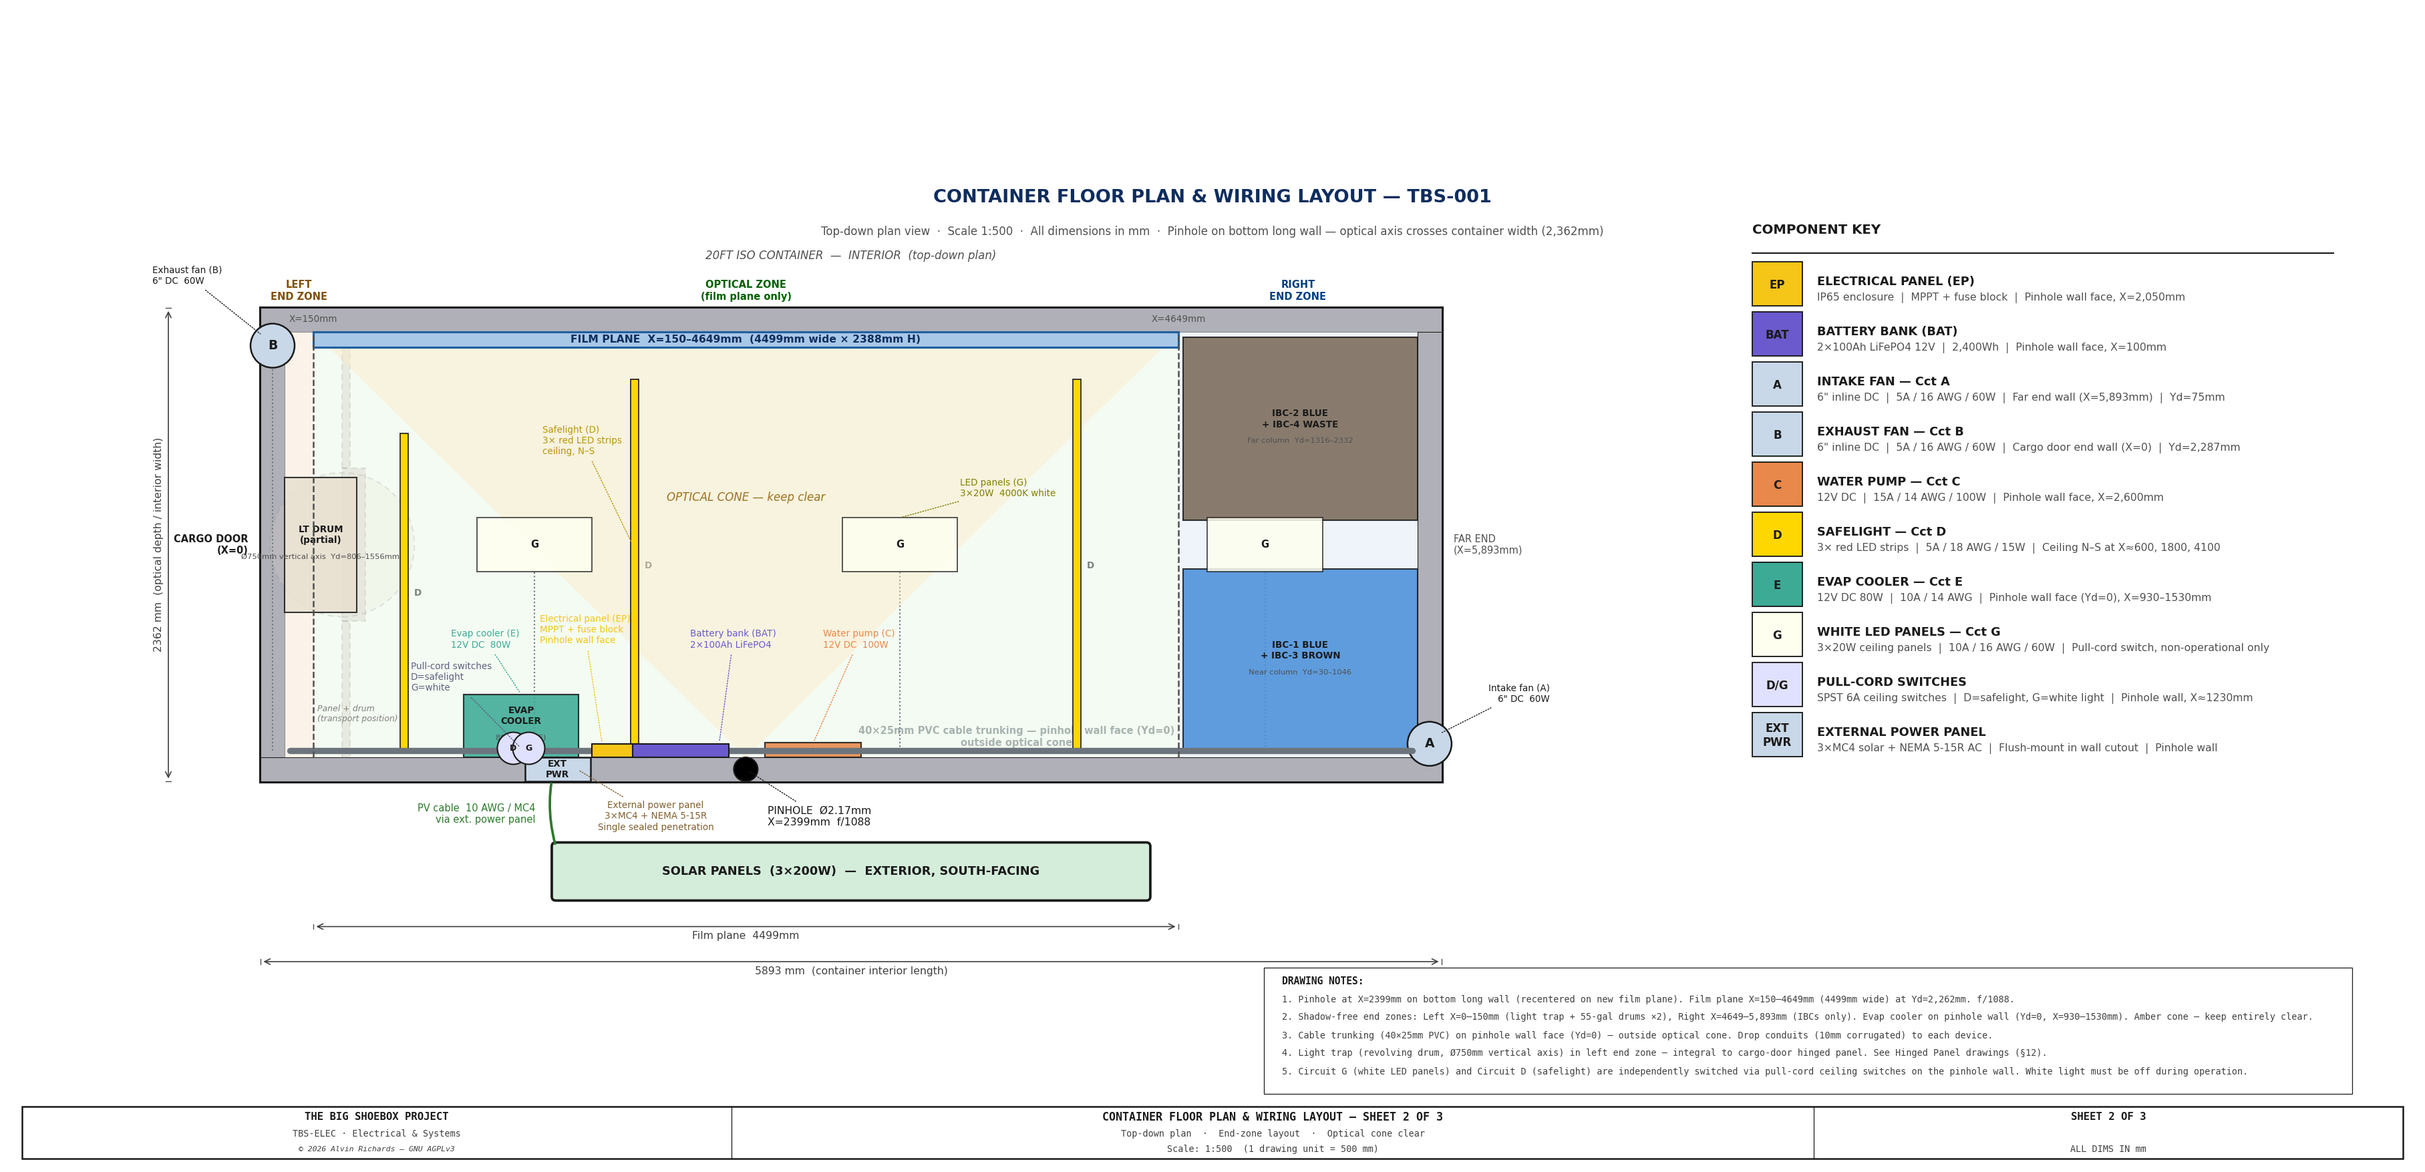
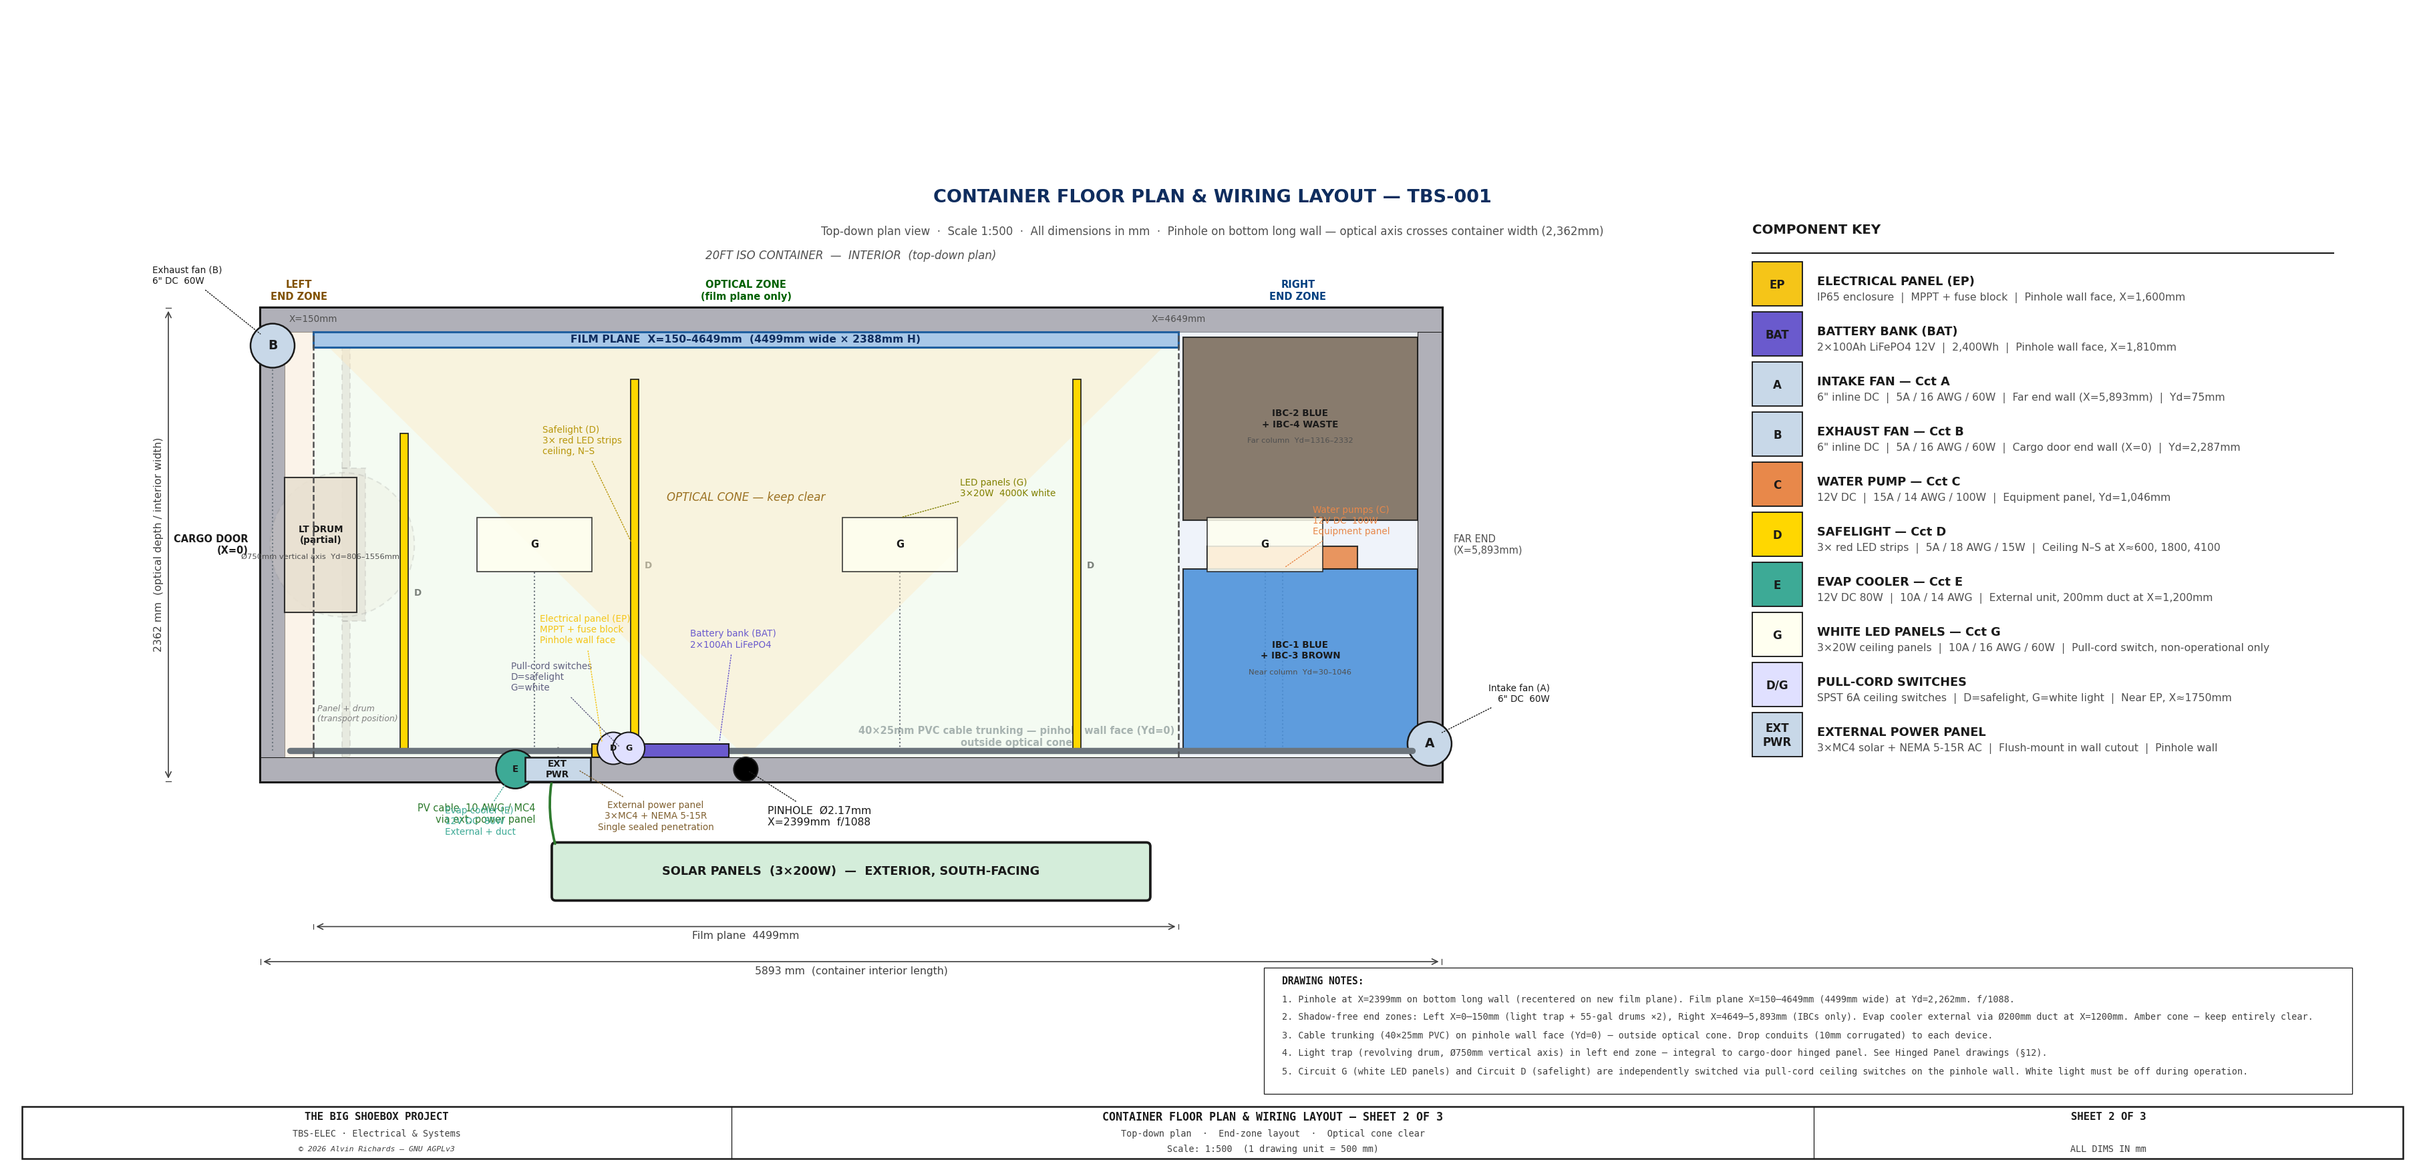
Electrical diagram: apply rev 7 reorg — duct penetration, pump relocation
Sheet 1: Circuit E note updated to external unit + duct; Circuit C note
updated to equipment panel in IBC corridor.

Sheet 2: evap cooler block replaced with duct penetration circle on pinhole
wall; pump manifold moved to Yd=1,046; conduit drops rerouted; pull-cord
switches repositioned near EP; component key updated.

Sheet 3: evap cooler replaced with duct penetration (Ø200mm at X=1,200,
Z=2,100); pump manifold shown as ghost outline with relocation note;
pull-cord switches repositioned; dimensions and component key updated.

diff --git a/generate_electrical_diagram.py b/generate_electrical_diagram.py
@@ -251,11 +251,11 @@ def draw_sheet1():
         ("B", "VENTILATION FAN\nEXHAUST  (6\")",  "5A",  "16 AWG", "60W",
          "Cargo door end wall (X=0)  |  high position  |  Yd=2,287mm corner", C_ALUM),
         ("C", "WATER PUMP  (12V DC)",              "15A", "14 AWG", "100W",
-         "Adjacent water totes", C_PUMP_TINT),
+         "Equipment panel, IBC corridor (Yd=1,046)", C_PUMP_TINT),
         ("D", "SAFELIGHT\ninterior + vestibule",  "5A",  "18 AWG", "15W",
          "3× red LED strips (ceiling, N–S)  |  pull-cord switch", "#FFEEDD"),
         ("E", "EVAPORATIVE\nCOOLER  (12V DC)",      "10A", "14 AWG", "80W",
-         "Far short wall  |  light-safe baffled intake", C_EVAP_TINT),
+         "External unit  |  200mm duct through pinhole wall", C_EVAP_TINT),
         ("F", "FILM PLANE\nACTUATORS  (optional)",  "20A", "12 AWG", "≤100W pk",
          "Future provision  |  leave fused spare", "#E8E8E8"),
         ("G", "WHITE LED PANELS\n(general lighting)",  "10A", "16 AWG", "60W",
@@ -381,7 +381,7 @@ def draw_sheet1():
 #   Pinhole: on BOTTOM long wall at X=2,399mm (centered on film plane)
 #   Image plane: on TOP long wall
 #   NO vestibule shown — light trap is part of hinged-panel drawing
-#   All equipment in colonnade strip Yd ≤ 1,220mm (near bottom/pinhole wall)
+#   EP + BAT on pinhole wall (Yd=0); pumps on equipment panel (Yd=1,046)
 # ─────────────────────────────────────────────────────────────────────────────
 
 def draw_sheet2():
@@ -391,8 +391,9 @@ def draw_sheet2():
         PH_X as TBS_PH_X, PH_D, PH_FNO,
         FP_X_L, FP_X_R,
         ZONE_L_END, ZONE_R_START,
-        EVAP_X, EVAP_W, EVAP_Y, EVAP_D,
-        EP_X, EP_W, BA_X, BA_W, PUMP_X, PUMP_W,
+        EVAP_DUCT_X, EVAP_DUCT_D,
+        EP_X, EP_W, BA_X, BA_W, PUMP_X, PUMP_W, PUMP_D,
+        CORRIDOR_YD_NEAR, EQPANEL_X, EQPANEL_W,
         IBC_COL_X, IBC_W, IBC_D,
         BLUE_IBC_Y, BROWN_IBC_Y, IBC_FAR_Y,
         DRUM_CX, DRUM_D, DRUM_R,
@@ -613,9 +614,19 @@ def draw_sheet2():
             ha="left", va="bottom", fontsize=6.0, color="#808080",
             style="italic", zorder=5)
 
-    # PINHOLE WALL FACE (Yd=0) — evap cooler (rev 3) + pump manifold
-    equip(EVAP_X, EVAP_Y, EVAP_W, EVAP_D, "EVAP\nCOOLER", C_EVAP, "80W 12V  (E)")
-    equip(PUMP_X, 0, PUMP_W, 80, "", C_PUMP, "")
+    # PINHOLE WALL — duct penetration (evap cooler now external)
+    duct_cx = ix(EVAP_DUCT_X)
+    duct_cy = OY + wt / 2
+    duct_r = EVAP_DUCT_D / 2 * S_xi
+    ax.add_patch(plt.Circle((duct_cx, duct_cy), duct_r,
+                 fc=C_EVAP, ec=C_OUT, lw=1.2, zorder=7))
+    ax.text(duct_cx, duct_cy, "E",
+            ha="center", va="center", fontsize=6.5, fontweight="bold",
+            color=C_OUT, zorder=8)
+
+    # EQUIPMENT PANEL (Yd=1,046) — pump manifold in IBC corridor
+    PUMP_YD = CORRIDOR_YD_NEAR
+    equip(PUMP_X, PUMP_YD, PUMP_W, PUMP_D, "", C_PUMP, "")
 
     # RIGHT END ZONE — 4× IBC in 2×2 stack
     # Near column (Yd=30–1046): Blue #1 on top, Brown on bottom
@@ -713,8 +724,8 @@ def draw_sheet2():
                 ha="center", va="center", fontsize=7.0, fontweight="bold",
                 color=C_OUT, zorder=6)
 
-    # ── Pull-cord switches — pinhole wall side, above evap cooler ───────────
-    PS_X_MM = EVAP_X + EVAP_W // 2   # X position — centered above evap cooler
+    # ── Pull-cord switches — pinhole wall side, near EP ────────────────────
+    PS_X_MM = EP_X + EP_W // 2   # X position — centered near EP
     PS_YD   = 50     # just off pinhole wall
     PS_SZ   = 0.16   # symbol size in drawing units
     C_SWITCH = "#E0E0FF"
@@ -745,14 +756,14 @@ def draw_sheet2():
             ha="center", va="top", fontsize=7.0, color=C_PIPE, fontweight="bold")
 
     # Drop conduits from trunking to devices
-    EVAP_CX = ix(EVAP_X + EVAP_W/2)
+    DUCT_CX = ix(EVAP_DUCT_X)
     PUMP_CX = ix(PUMP_X + PUMP_W/2)
     IBC_CX  = ix(IBC_COL_X + IBC_W/2)
     for ddx, ddy in [
         (BA_DX + BA_DW/2,    OY + wt),
         (EP_DX + EP_DW/2,    OY + wt),
-        (EVAP_CX,            OY+wt + EVAP_Y*S_yd),           # evap cooler (Yd=0, pinhole wall)
-        (PUMP_CX,            OY+wt + 80*S_yd),               # pump manifold
+        (DUCT_CX,            OY + wt / 2),                   # duct penetration (in wall)
+        (PUMP_CX,            OY+wt + PUMP_YD*S_yd),          # pump manifold (Yd=1,046)
         (IBC_CX,             OY+wt + BLUE_IBC_Y*S_yd),      # IBC column centre
         (FA_X,               FA_Y - 0.22),
         (FB_X,               FB_Y - 0.22),
@@ -783,10 +794,10 @@ def draw_sheet2():
            FB_X - 1.2, FB_Y + 0.7,
            "Exhaust fan (B)\n6\" DC  60W",
            fs=6.5)
-    # Pump — Cct C
-    leader(ax, PUMP_CX, OY + wt + 80 * S_yd,
-           PUMP_CX + 0.1, OY + cwid * 0.3,
-           "Water pump (C)\n12V DC  100W",
+    # Pump — Cct C (on equipment panel in IBC corridor)
+    leader(ax, PUMP_CX, OY + wt + PUMP_YD * S_yd,
+           PUMP_CX + 0.3, OY + cwid * 0.55,
+           "Water pumps (C)\n12V DC  100W\nEquipment panel",
            fs=6.5, color=C_PUMP)
     # Safelight — Cct D (label middle strip)
     sl_ldr_x = ix(SL_POSITIONS[1] + SL_STRIP_W / 2)
@@ -795,10 +806,10 @@ def draw_sheet2():
            sl_ldr_x - 0.9, OY + cwid * 0.72,
            "Safelight (D)\n3× red LED strips\nceiling, N–S",
            fs=6.5, color="#B8960A")
-    # Evap cooler — Cct E
-    leader(ax, EVAP_CX, OY + wt + (EVAP_Y + EVAP_D) * S_yd,
-           EVAP_CX - 0.7, OY + cwid * 0.3,
-           "Evap cooler (E)\n12V DC  80W",
+    # Evap cooler — Cct E (external, duct penetration)
+    leader(ax, DUCT_CX, OY + wt / 2,
+           DUCT_CX - 0.7, OY - 0.4,
+           "Evap cooler (E)\n12V DC  80W\nExternal + duct",
            fs=6.5, color=C_EVAP)
     # LED panels — Cct G (label middle panel only)
     led_mid_cx = ix(LED_POSITIONS[1] + LED_W_MM / 2)
@@ -853,23 +864,23 @@ def draw_sheet2():
 
     key_rows = [
         ("EP",    C_ELEC,    "ELECTRICAL PANEL (EP)",
-         "IP65 enclosure  |  MPPT + fuse block  |  Pinhole wall face, X=2,050mm"),
+         f"IP65 enclosure  |  MPPT + fuse block  |  Pinhole wall face, X={EP_X:,}mm"),
         ("BAT",   C_BATT,    "BATTERY BANK (BAT)",
-         "2×100Ah LiFePO4 12V  |  2,400Wh  |  Pinhole wall face, X=100mm"),
+         f"2×100Ah LiFePO4 12V  |  2,400Wh  |  Pinhole wall face, X={BA_X:,}mm"),
         ("A",     C_ALUM,    "INTAKE FAN — Cct A",
          "6\" inline DC  |  5A / 16 AWG / 60W  |  Far end wall (X=5,893mm)  |  Yd=75mm"),
         ("B",     C_ALUM,    "EXHAUST FAN — Cct B",
          "6\" inline DC  |  5A / 16 AWG / 60W  |  Cargo door end wall (X=0)  |  Yd=2,287mm"),
         ("C",     C_PUMP,    "WATER PUMP — Cct C",
-         "12V DC  |  15A / 14 AWG / 100W  |  Pinhole wall face, X=2,600mm"),
+         f"12V DC  |  15A / 14 AWG / 100W  |  Equipment panel, Yd={CORRIDOR_YD_NEAR:,}mm"),
         ("D",     "#FFD700", "SAFELIGHT — Cct D",
          f"3× red LED strips  |  5A / 18 AWG / 15W  |  Ceiling N–S at X≈{', '.join(str(x) for x in SL_POSITIONS)}"),
         ("E",     C_EVAP,    "EVAP COOLER — Cct E",
-         f"12V DC 80W  |  10A / 14 AWG  |  Pinhole wall face (Yd=0), X={EVAP_X}–{EVAP_X+EVAP_W}mm"),
+         f"12V DC 80W  |  10A / 14 AWG  |  External unit, 200mm duct at X={EVAP_DUCT_X:,}mm"),
         ("G",     C_LED,     "WHITE LED PANELS — Cct G",
          "3×20W ceiling panels  |  10A / 16 AWG / 60W  |  Pull-cord switch, non-operational only"),
         ("D/G",   C_SWITCH,  "PULL-CORD SWITCHES",
-         f"SPST 6A ceiling switches  |  D=safelight, G=white light  |  Pinhole wall, X≈{PS_X_MM}mm"),
+         f"SPST 6A ceiling switches  |  D=safelight, G=white light  |  Near EP, X≈{PS_X_MM}mm"),
         ("EXT\nPWR",C_ALUM,"EXTERNAL POWER PANEL",
          "3×MC4 solar + NEMA 5-15R AC  |  Flush-mount in wall cutout  |  Pinhole wall"),
     ]
@@ -892,8 +903,8 @@ def draw_sheet2():
         f"1. Pinhole at X={TBS_PH_X}mm on bottom long wall (recentered on new film plane). "
         f"Film plane X={FP_X_L}\u2013{FP_X_R}mm ({FP_X_R-FP_X_L}mm wide) at Yd=2,262mm. f/1088.",
         f"2. Shadow-free end zones: Left X=0\u2013{FP_X_L}mm (light trap + 55-gal drums \u00d72), "
-        f"Right X={FP_X_R}\u20135,893mm (IBCs only). Evap cooler on pinhole wall (Yd=0, "
-        f"X={EVAP_X}\u2013{EVAP_X+EVAP_W}mm). Amber cone \u2014 keep entirely clear.",
+        f"Right X={FP_X_R}\u20135,893mm (IBCs only). Evap cooler external via "
+        f"\u00d8{EVAP_DUCT_D}mm duct at X={EVAP_DUCT_X}mm. Amber cone \u2014 keep entirely clear.",
         "3. Cable trunking (40\u00d725mm PVC) on pinhole wall face (Yd=0) \u2014 outside "
         "optical cone. Drop conduits (10mm corrugated) to each device.",
         "4. Light trap (revolving drum, \u00d8750mm vertical axis) in left end zone \u2014 "
@@ -936,7 +947,7 @@ def draw_sheet3():
         EP_X, EP_W, EP_H_LO, EP_H_HI,
         BA_X, BA_W, BA_H_LO, BA_H_HI,
         PUMP_X, PUMP_W, PUMP_H_LO, PUMP_H_HI,
-        EVAP_X, EVAP_W, EVAP_H, RAIL_OFF,
+        EVAP_DUCT_X, EVAP_DUCT_D, EVAP_DUCT_Z, CORRIDOR_YD_NEAR,
         PWR_PANEL_X, PWR_PANEL_W, PWR_PANEL_H,
         PROC_TRAY_X_L, PROC_TRAY_X_R, PROC_TRAY_RIM,
         WALKWAY_W, WALKWAY_H, WALKWAY_LEFT_X,
@@ -1093,9 +1104,22 @@ def draw_sheet3():
     ax.plot([pp_x + pp_w / 2, pp_x + pp_w / 2], [pp_y + pp_h, tk_y],
             color=C_PIPE, lw=2.0, solid_capstyle="round", zorder=4)
 
-    # ── Evaporative cooler (on walkway deck, raised above tray rim) ─────────
-    wall_equip(EVAP_X, RAIL_OFF, RAIL_OFF + EVAP_H, EVAP_W,
-               "EVAPORATIVE\nCOOLER", "Circuit E  80W", C_EVAP)
+    # ── Duct penetration (evap cooler now external) ────────────────────────────
+    duct_cx = wx(EVAP_DUCT_X)
+    duct_cz = wz(EVAP_DUCT_Z)
+    duct_r = EVAP_DUCT_D / 2 * S
+    ax.add_patch(plt.Circle((duct_cx, duct_cz), duct_r,
+                 fc=C_EVAP, ec=C_OUT, lw=1.5, zorder=6))
+    ax.text(duct_cx, duct_cz, "E",
+            ha="center", va="center", fontsize=7.0, fontweight="bold",
+            color=C_OUT, zorder=7)
+    # Conduit from duct to trunking
+    ax.plot([duct_cx, duct_cx], [duct_cz + duct_r, tk_y],
+            color=C_PIPE, lw=2.0, solid_capstyle="round", zorder=4)
+    leader(ax, duct_cx + duct_r, duct_cz,
+           duct_cx + 1.2, duct_cz - 0.6,
+           f"DUCT PENETRATION\nØ{EVAP_DUCT_D}mm  (Cct E)\nEvap cooler external",
+           fs=6.5, color=C_EVAP)
 
     # ── Electrical panel (wall-mounted) ───────────────────────────────────────
     wall_equip(EP_X, EP_H_LO, EP_H_HI, EP_W,
@@ -1105,9 +1129,18 @@ def draw_sheet3():
     wall_equip(BA_X, BA_H_LO, BA_H_HI, BA_W,
                "BATTERY BANK", "2×100Ah LiFePO4", C_BATT)
 
-    # ── Pump manifold (wall-mounted) ──────────────────────────────────────────
-    wall_equip(PUMP_X, PUMP_H_LO, PUMP_H_HI, PUMP_W,
-               "PUMP\nMANIFOLD", "Circuit C  100W", "#F5C8A0")
+    # ── Pump manifold (relocated to equipment panel, Yd=1,046) ────────────────
+    # Ghost outline showing former position
+    pm_x = wx(PUMP_X + PUMP_W)
+    pm_w = PUMP_W * S
+    pm_y = wz(PUMP_H_LO)
+    pm_h = (PUMP_H_HI - PUMP_H_LO) * S
+    ax.add_patch(mpatches.Rectangle((pm_x, pm_y), pm_w, pm_h,
+                 fc="none", ec="#C0C0C0", lw=1.0, ls=(0, (3, 3)), zorder=3))
+    ax.text(pm_x + pm_w / 2, pm_y + pm_h / 2,
+            "PUMPS\n(RELOCATED TO\nEQUIP PANEL\nYd=1,046)",
+            ha="center", va="center", fontsize=5.5, color="#A0A0A0",
+            style="italic", zorder=4)
 
     # ── Pinhole ───────────────────────────────────────────────────────────────
     ph_x = wx(TBS_PH_X)
@@ -1119,7 +1152,7 @@ def draw_sheet3():
            fs=7.0, ha="center")
 
     # ── Pull-cord switches ────────────────────────────────────────────────────
-    PS_X_MM = EVAP_X + EVAP_W // 2   # X position — centered above evap cooler
+    PS_X_MM = EP_X + EP_W // 2   # X position — centered near EP
     PS_Z_MM = C_HGT - 60   # just below trunking
     CORD_HANG_Z = 900  # cord bottom hangs to ~900mm above floor (~1500mm above walkway deck at 100mm)
 
@@ -1262,18 +1295,15 @@ def draw_sheet3():
 
     # ── Horizontal X dimensions for key equipment ─────────────────────────────
     DIM_Z_TOP = OY + whgt + 0.40
-    draw_dim_h(ax, wx(EVAP_X + EVAP_W), wx(EVAP_X), DIM_Z_TOP,
-               f"Evap  X={EVAP_X}–{EVAP_X+EVAP_W}",
-               above=True, offset=0.05, fs=6.0)
     draw_dim_h(ax, wx(EP_X + EP_W), wx(EP_X), DIM_Z_TOP + 0.35,
                f"EP  X={EP_X}–{EP_X+EP_W}",
                above=True, offset=0.05, fs=6.0)
     draw_dim_h(ax, wx(BA_X + BA_W), wx(BA_X), DIM_Z_TOP,
                f"BAT  X={BA_X}–{BA_X+BA_W}",
                above=True, offset=0.05, fs=6.0)
-    draw_dim_h(ax, wx(PUMP_X + PUMP_W), wx(PUMP_X), DIM_Z_TOP,
-               f"Pump  X={PUMP_X}–{PUMP_X+PUMP_W}",
-               above=True, offset=0.05, fs=6.0)
+    # Duct penetration position
+    draw_dim_v(ax, duct_cx + duct_r + 0.15, OY, duct_cz,
+               f"Duct Z={EVAP_DUCT_Z}mm", offset=0.05, fs=6.0, right=True)
 
     # ── Component key (right of elevation) ────────────────────────────────────
     KX = OX + wlen + 1.2
@@ -1286,8 +1316,8 @@ def draw_sheet3():
         (C_PIPE,    "CABLE TRUNKING",    "40×25mm PVC  |  Ceiling corner rail  |  Full length"),
         (C_ELEC,    "ELECTRICAL PANEL",  f"EP  |  X={EP_X}–{EP_X+EP_W}  |  Z={EP_H_LO}–{EP_H_HI}mm"),
         (C_BATT,    "BATTERY BANK",      f"BAT  |  X={BA_X}–{BA_X+BA_W}  |  Z={BA_H_LO}–{BA_H_HI}mm"),
-        ("#F5C8A0", "PUMP MANIFOLD",     f"Cct C  |  X={PUMP_X}–{PUMP_X+PUMP_W}  |  Z={PUMP_H_LO}–{PUMP_H_HI}mm"),
-        (C_EVAP,    "EVAP COOLER",       f"Cct E  |  X={EVAP_X}–{EVAP_X+EVAP_W}  |  Walkway deck Z={RAIL_OFF}–{RAIL_OFF+EVAP_H}mm"),
+        ("#F5C8A0", "PUMP MANIFOLD",     f"Cct C  |  Relocated to equipment panel (Yd={CORRIDOR_YD_NEAR})"),
+        (C_EVAP,    "DUCT PENETRATION",  f"Cct E  |  Ø{EVAP_DUCT_D}mm at X={EVAP_DUCT_X}, Z={EVAP_DUCT_Z}mm  |  Evap cooler external"),
         (C_ALUM,    "EXT POWER PANEL",   f"Flush-mount  |  X={PWR_PANEL_X}–{PWR_PANEL_X+PWR_PANEL_W}  |  3×MC4 + NEMA"),
         ("#FFFFF0", "LED PANELS (G)",    "3×20W  4000K  |  Ceiling-mount  |  X≈1000, 2900, 4800"),
         ("#E0E0FF", "PULL SWITCHES",     f"Ccts D & G  |  SPST 6A  |  X≈{PS_X_MM}mm  |  Cord to ~1,500mm AFF"),
@@ -1306,7 +1336,7 @@ def draw_sheet3():
     # ── Drawing notes ─────────────────────────────────────────────────────────
     notes = [
         "DRAWING NOTES:",
-        "1. Elevation looking toward pinhole wall (Yd=0) from inside the container. All equipment is wall-mounted or floor-standing on the pinhole wall face.",
+        "1. Elevation looking toward pinhole wall (Yd=0) from inside the container. EP and battery wall-mounted; pumps relocated to equipment panel (Yd=1,046); evap cooler external via duct.",
         "2. Cable trunking runs horizontally at the ceiling corner rail (Z\u22482,363mm). Drop conduits (10mm corrugated, shown dashed) descend to each device.",
         "3. Pull-cord switches at ceiling height, cords hang to ~1,500mm above walkway deck (~900mm AFF). D=safelight (red), G=white light.",
         "4. LED panels are ceiling-mounted, centered across container width. Connected to Circuit G via trunking. Non-operational only.",
